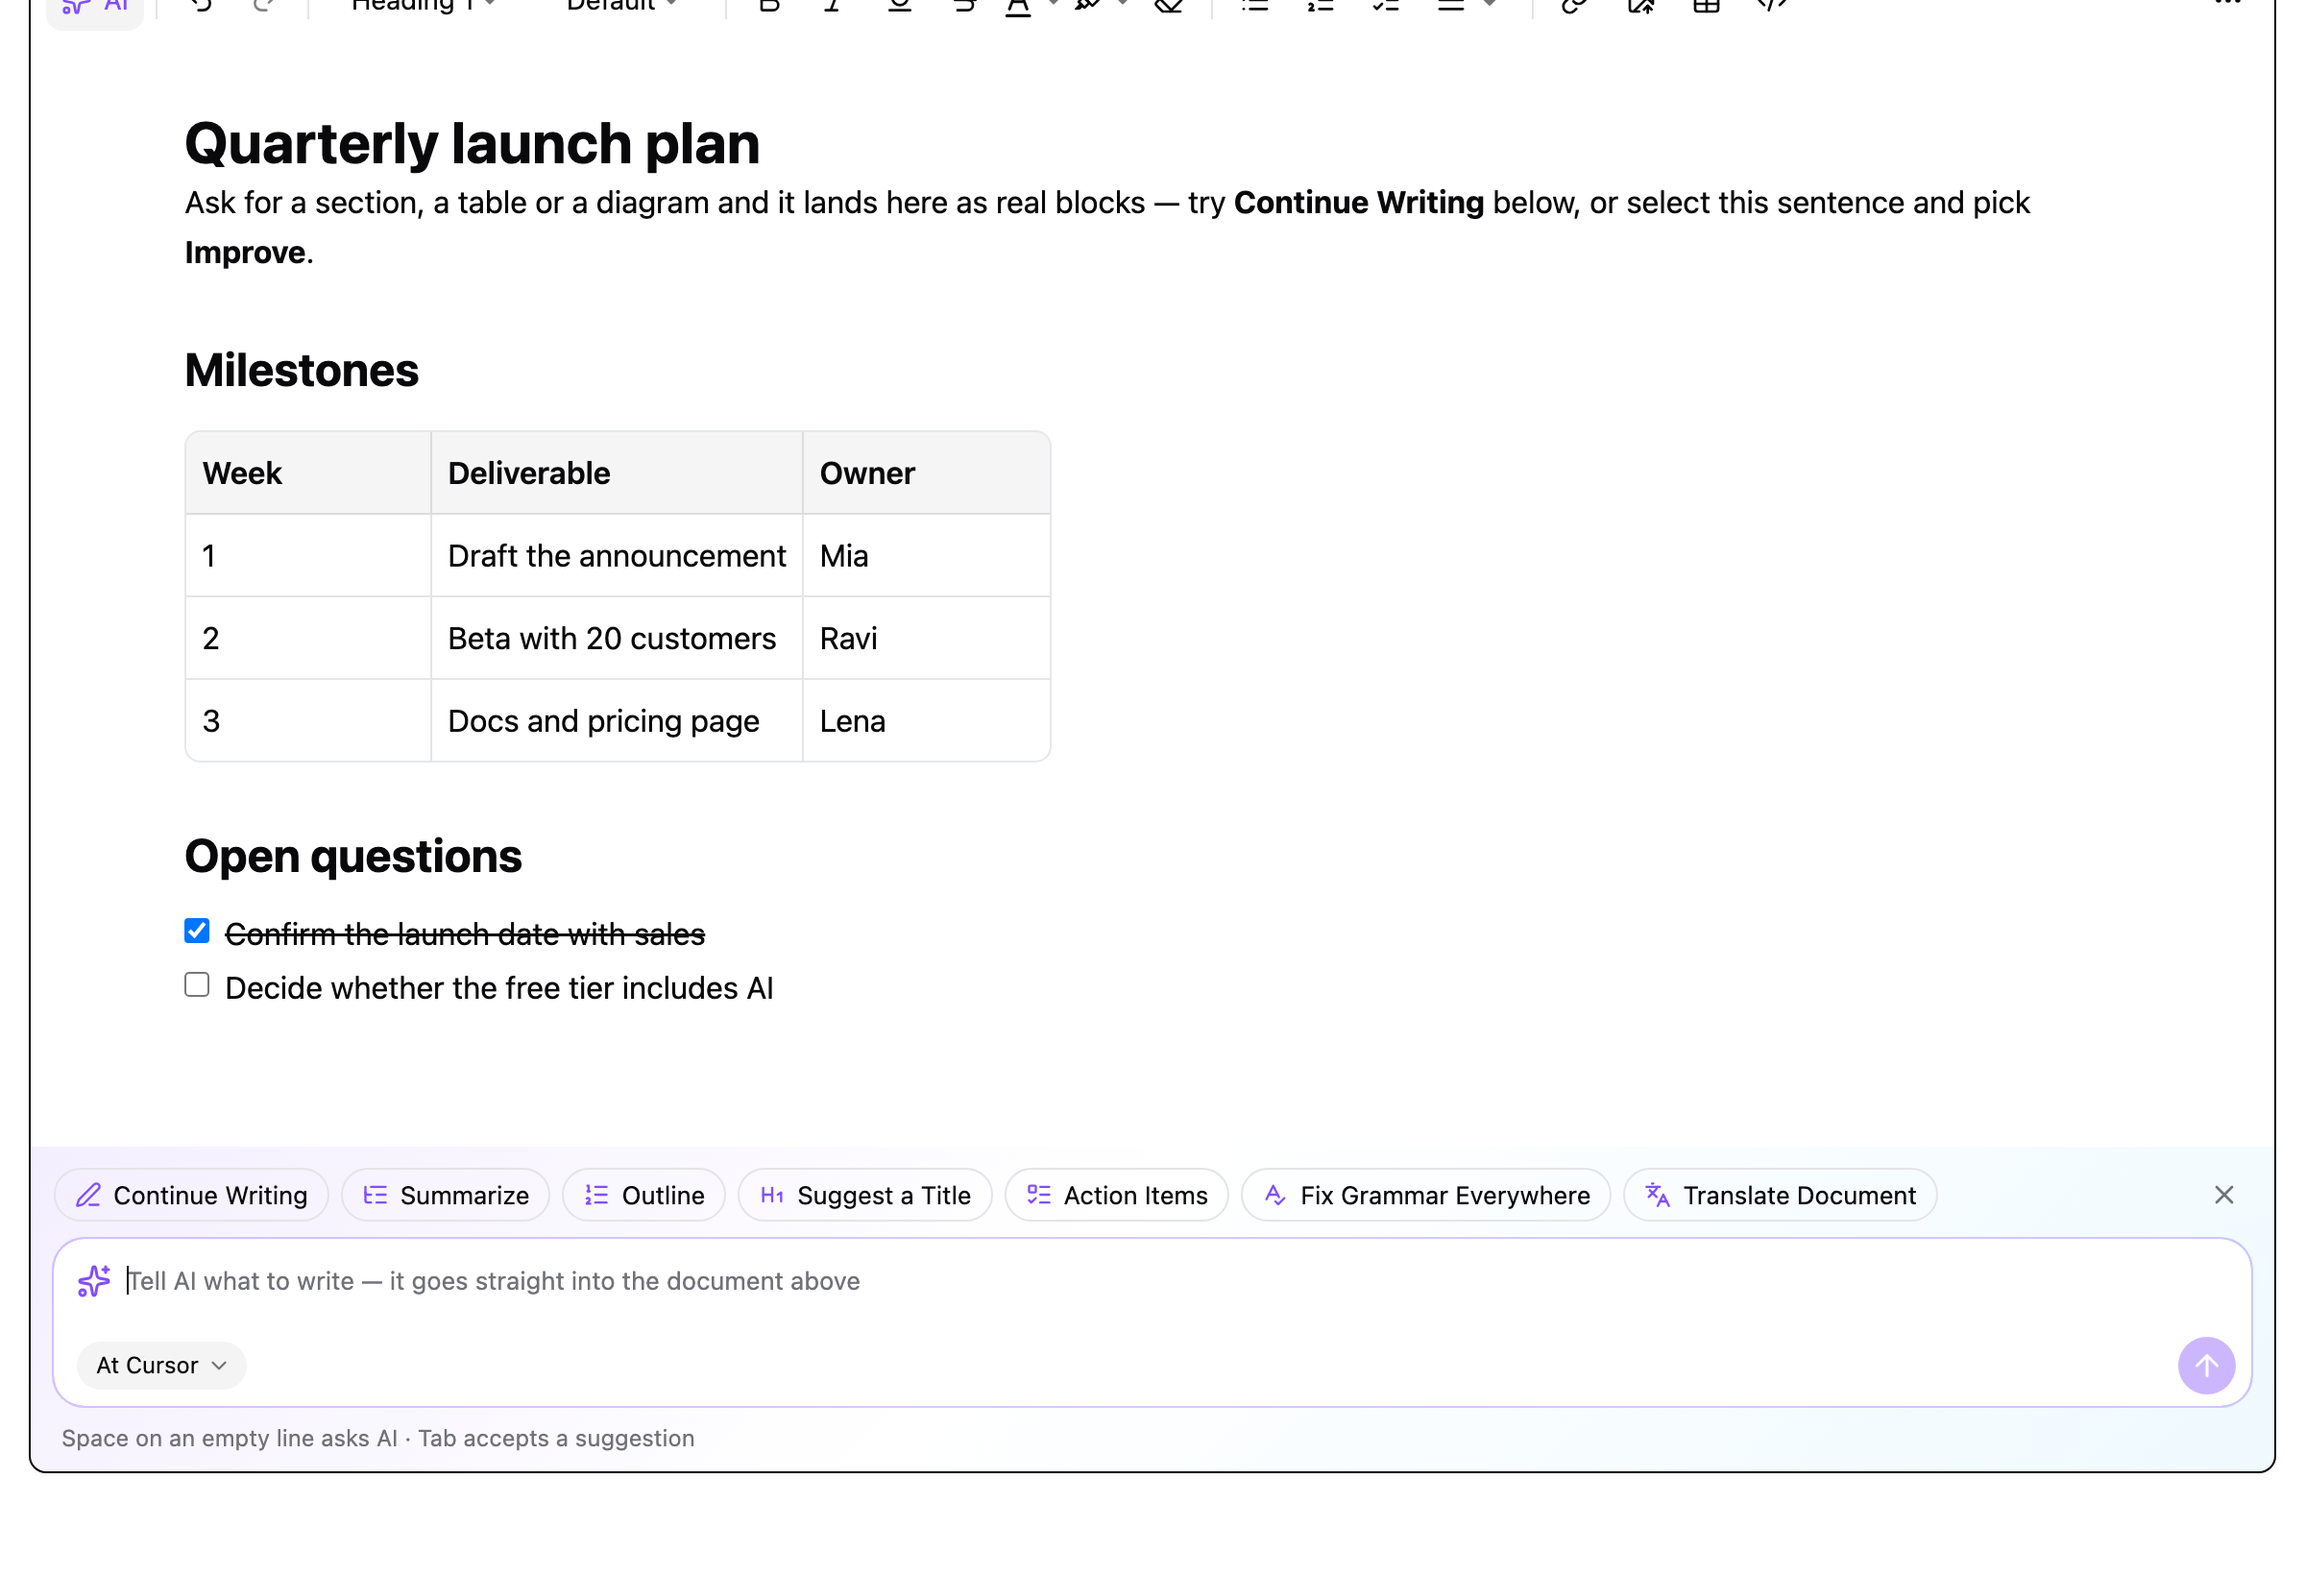
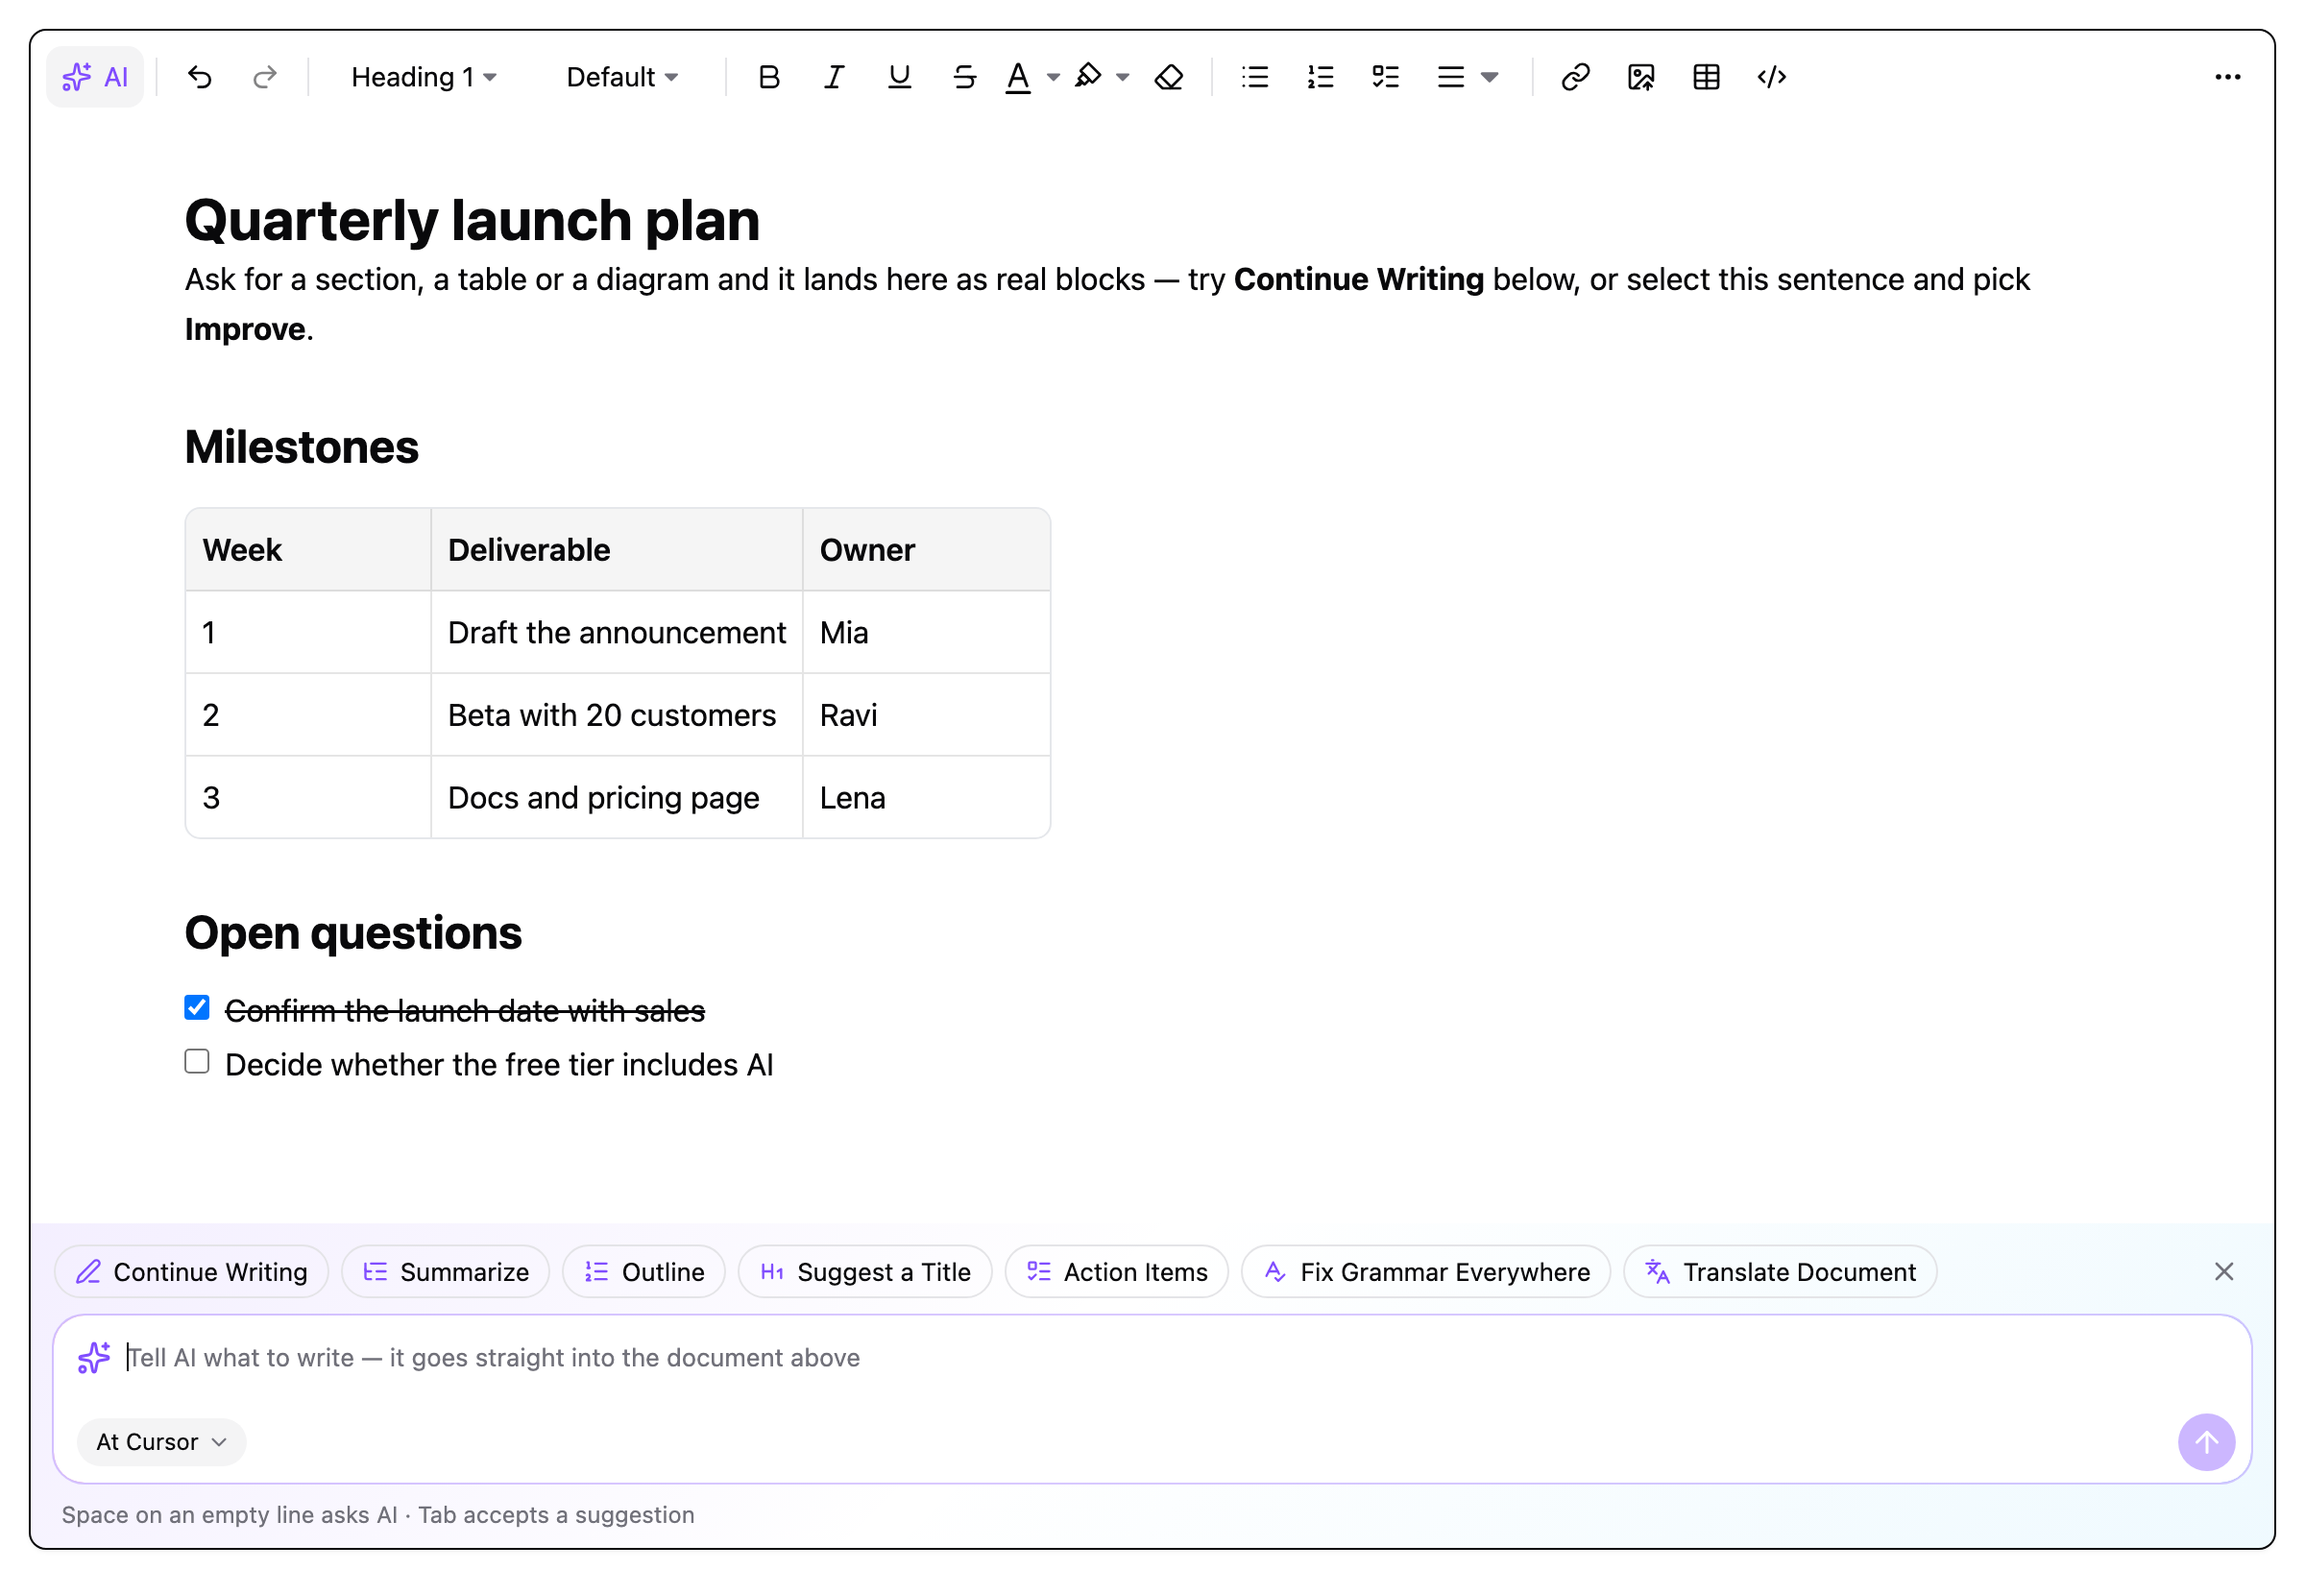
docs: fix React and Vue tab labels on extension pages, fresh playground screenshot

diff --git a/docs/extensions/SearchAndReplace/index.md b/docs/extensions/SearchAndReplace/index.md
@@ -16,7 +16,7 @@ Start with the packages in [Getting Started](/guide/getting-started). The comple
 
 ::: code-group
 
-```tsx
+```tsx [React]
 'use client';
 
 import { EditorContent, useEditor } from '@tiptap/react';
@@ -45,9 +45,9 @@ export default function SearchAndReplaceExample() {
     </RichTextProvider>
   );
 }
-``` [React]
+```
 
-```vue
+```vue [Vue]
 <script setup lang="ts">
 import { EditorContent, useEditor } from '@tiptap/vue-3';
 import { Document } from '@tiptap/extension-document';
@@ -70,7 +70,7 @@ const editor = useEditor({
     <EditorContent :editor="editor" />
   </RichTextProvider>
 </template>
-``` [Vue]
+```
 
 :::
 

diff --git a/docs/extensions/TableOfContents/index.md b/docs/extensions/TableOfContents/index.md
@@ -16,7 +16,7 @@ Start with the packages in [Getting Started](/guide/getting-started). The comple
 
 ::: code-group
 
-```tsx
+```tsx [React]
 'use client';
 
 import { EditorContent, useEditor } from '@tiptap/react';
@@ -46,9 +46,9 @@ export default function TableOfContentsExample() {
     </RichTextProvider>
   );
 }
-``` [React]
+```
 
-```vue
+```vue [Vue]
 <script setup lang="ts">
 import { EditorContent, useEditor } from '@tiptap/vue-3';
 import { Document } from '@tiptap/extension-document';
@@ -72,7 +72,7 @@ const editor = useEditor({
     <EditorContent :editor="editor" />
   </RichTextProvider>
 </template>
-``` [Vue]
+```
 
 :::
 

diff --git a/docs/extensions/ExportMarkdown/index.md b/docs/extensions/ExportMarkdown/index.md
@@ -16,7 +16,7 @@ Start with the packages in [Getting Started](/guide/getting-started). The comple
 
 ::: code-group
 
-```tsx
+```tsx [React]
 'use client';
 
 import { EditorContent, useEditor } from '@tiptap/react';
@@ -47,9 +47,9 @@ export default function ExportMarkdownExample() {
     </RichTextProvider>
   );
 }
-``` [React]
+```
 
-```vue
+```vue [Vue]
 <script setup lang="ts">
 import { EditorContent, useEditor } from '@tiptap/vue-3';
 import { Document } from '@tiptap/extension-document';
@@ -72,7 +72,7 @@ const editor = useEditor({
     <EditorContent :editor="editor" />
   </RichTextProvider>
 </template>
-``` [Vue]
+```
 
 :::
 

diff --git a/docs/extensions/TextDirection/index.md b/docs/extensions/TextDirection/index.md
@@ -16,7 +16,7 @@ Start with the packages in [Getting Started](/guide/getting-started). The comple
 
 ::: code-group
 
-```tsx
+```tsx [React]
 'use client';
 
 import { EditorContent, useEditor } from '@tiptap/react';
@@ -46,9 +46,9 @@ export default function TextDirectionExample() {
     </RichTextProvider>
   );
 }
-``` [React]
+```
 
-```vue
+```vue [Vue]
 <script setup lang="ts">
 import { EditorContent, useEditor } from '@tiptap/vue-3';
 import { Document } from '@tiptap/extension-document';
@@ -71,7 +71,7 @@ const editor = useEditor({
     <EditorContent :editor="editor" />
   </RichTextProvider>
 </template>
-``` [Vue]
+```
 
 :::
 

diff --git a/docs/extensions/TextUnderline/index.md b/docs/extensions/TextUnderline/index.md
@@ -16,7 +16,7 @@ Start with the packages in [Getting Started](/guide/getting-started). The comple
 
 ::: code-group
 
-```tsx
+```tsx [React]
 'use client';
 
 import { EditorContent, useEditor } from '@tiptap/react';
@@ -45,9 +45,9 @@ export default function TextUnderlineExample() {
     </RichTextProvider>
   );
 }
-``` [React]
+```
 
-```vue
+```vue [Vue]
 <script setup lang="ts">
 import { EditorContent, useEditor } from '@tiptap/vue-3';
 import { Document } from '@tiptap/extension-document';
@@ -71,7 +71,7 @@ const editor = useEditor({
     <EditorContent :editor="editor" />
   </RichTextProvider>
 </template>
-``` [Vue]
+```
 
 :::
 

diff --git a/docs/extensions/OrderedList/index.md b/docs/extensions/OrderedList/index.md
@@ -16,7 +16,7 @@ Start with the packages in [Getting Started](/guide/getting-started). Install `@
 
 ::: code-group
 
-```tsx
+```tsx [React]
 'use client';
 
 import { EditorContent, useEditor } from '@tiptap/react';
@@ -46,9 +46,9 @@ export default function OrderedListExample() {
     </RichTextProvider>
   );
 }
-``` [React]
+```
 
-```vue
+```vue [Vue]
 <script setup lang="ts">
 import { EditorContent, useEditor } from '@tiptap/vue-3';
 import { Document } from '@tiptap/extension-document';
@@ -73,7 +73,7 @@ const editor = useEditor({
     <EditorContent :editor="editor" />
   </RichTextProvider>
 </template>
-``` [Vue]
+```
 
 :::
 

diff --git a/docs/extensions/Attachment/index.md b/docs/extensions/Attachment/index.md
@@ -16,7 +16,7 @@ Start with the packages in [Getting Started](/guide/getting-started). The comple
 
 ::: code-group
 
-```tsx
+```tsx [React]
 'use client';
 
 import { EditorContent, useEditor } from '@tiptap/react';
@@ -57,9 +57,9 @@ export default function AttachmentExample() {
     </RichTextProvider>
   );
 }
-``` [React]
+```
 
-```vue
+```vue [Vue]
 <script setup lang="ts">
 import { EditorContent, useEditor } from '@tiptap/vue-3';
 import { Document } from '@tiptap/extension-document';
@@ -94,7 +94,7 @@ const editor = useEditor({
     <EditorContent :editor="editor" />
   </RichTextProvider>
 </template>
-``` [Vue]
+```
 
 :::
 

diff --git a/docs/extensions/Blockquote/index.md b/docs/extensions/Blockquote/index.md
@@ -16,7 +16,7 @@ Start with the packages in [Getting Started](/guide/getting-started). The comple
 
 ::: code-group
 
-```tsx
+```tsx [React]
 'use client';
 
 import { EditorContent, useEditor } from '@tiptap/react';
@@ -45,9 +45,9 @@ export default function BlockquoteExample() {
     </RichTextProvider>
   );
 }
-``` [React]
+```
 
-```vue
+```vue [Vue]
 <script setup lang="ts">
 import { EditorContent, useEditor } from '@tiptap/vue-3';
 import { Document } from '@tiptap/extension-document';
@@ -71,7 +71,7 @@ const editor = useEditor({
     <EditorContent :editor="editor" />
   </RichTextProvider>
 </template>
-``` [Vue]
+```
 
 :::
 

diff --git a/docs/extensions/BulletList/index.md b/docs/extensions/BulletList/index.md
@@ -16,7 +16,7 @@ Start with the packages in [Getting Started](/guide/getting-started). Install `@
 
 ::: code-group
 
-```tsx
+```tsx [React]
 'use client';
 
 import { EditorContent, useEditor } from '@tiptap/react';
@@ -46,9 +46,9 @@ export default function BulletListExample() {
     </RichTextProvider>
   );
 }
-``` [React]
+```
 
-```vue
+```vue [Vue]
 <script setup lang="ts">
 import { EditorContent, useEditor } from '@tiptap/vue-3';
 import { Document } from '@tiptap/extension-document';
@@ -73,7 +73,7 @@ const editor = useEditor({
     <EditorContent :editor="editor" />
   </RichTextProvider>
 </template>
-``` [Vue]
+```
 
 :::
 

diff --git a/docs/extensions/ExportWord/index.md b/docs/extensions/ExportWord/index.md
@@ -16,7 +16,7 @@ Start with the packages in [Getting Started](/guide/getting-started). The comple
 
 ::: code-group
 
-```tsx
+```tsx [React]
 'use client';
 
 import { EditorContent, useEditor } from '@tiptap/react';
@@ -45,9 +45,9 @@ export default function ExportWordExample() {
     </RichTextProvider>
   );
 }
-``` [React]
+```
 
-```vue
+```vue [Vue]
 <script setup lang="ts">
 import { EditorContent, useEditor } from '@tiptap/vue-3';
 import { Document } from '@tiptap/extension-document';
@@ -70,7 +70,7 @@ const editor = useEditor({
     <EditorContent :editor="editor" />
   </RichTextProvider>
 </template>
-``` [Vue]
+```
 
 :::
 

diff --git a/docs/extensions/FontFamily/index.md b/docs/extensions/FontFamily/index.md
@@ -16,7 +16,7 @@ Start with the packages in [Getting Started](/guide/getting-started). Install `@
 
 ::: code-group
 
-```tsx
+```tsx [React]
 'use client';
 
 import { EditorContent, useEditor } from '@tiptap/react';
@@ -46,9 +46,9 @@ export default function FontFamilyExample() {
     </RichTextProvider>
   );
 }
-``` [React]
+```
 
-```vue
+```vue [Vue]
 <script setup lang="ts">
 import { EditorContent, useEditor } from '@tiptap/vue-3';
 import { Document } from '@tiptap/extension-document';
@@ -72,7 +72,7 @@ const editor = useEditor({
     <EditorContent :editor="editor" />
   </RichTextProvider>
 </template>
-``` [Vue]
+```
 
 :::
 

diff --git a/docs/extensions/ImportWord/index.md b/docs/extensions/ImportWord/index.md
@@ -16,7 +16,7 @@ Start with the packages in [Getting Started](/guide/getting-started). The comple
 
 ::: code-group
 
-```tsx
+```tsx [React]
 'use client';
 
 import { EditorContent, useEditor } from '@tiptap/react';
@@ -45,9 +45,9 @@ export default function ImportWordExample() {
     </RichTextProvider>
   );
 }
-``` [React]
+```
 
-```vue
+```vue [Vue]
 <script setup lang="ts">
 import { EditorContent, useEditor } from '@tiptap/vue-3';
 import { Document } from '@tiptap/extension-document';
@@ -70,7 +70,7 @@ const editor = useEditor({
     <EditorContent :editor="editor" />
   </RichTextProvider>
 </template>
-``` [Vue]
+```
 
 :::
 
